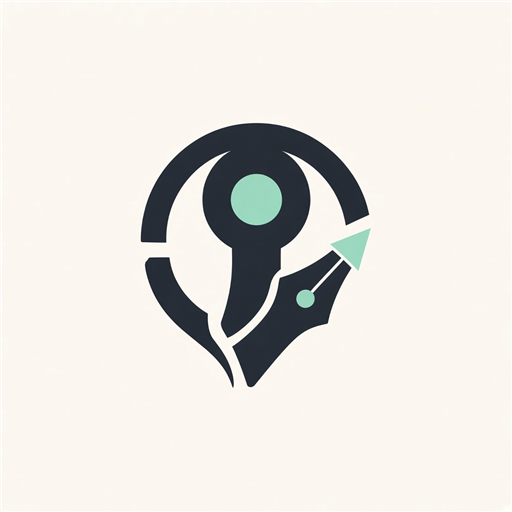
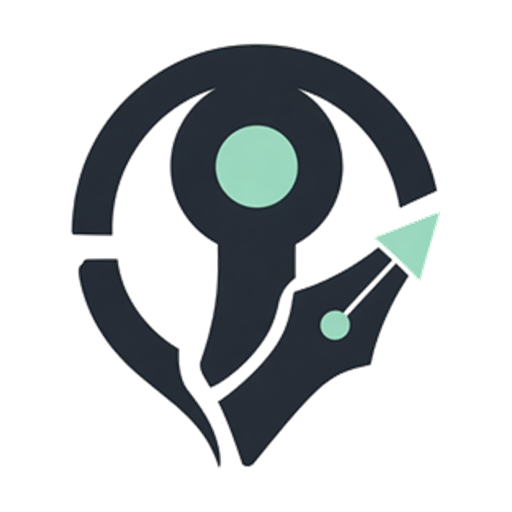
fix: render SourceMark mark with transparent PNG and clean hero brand
Strip cream backgrounds from the provided logo, serve a square transparent icon in nav/hero/footer, and stop using the cover banner as an on-page lockup.

Changed region(s): [[0.125, 0.0625, 0.875, 0.9375]]

diff --git a/public/demo.html b/public/demo.html
@@ -5,7 +5,7 @@
 <meta name="viewport" content="width=device-width, initial-scale=1" />
 <title>SourceMark — no proof, no answer</title>
 <meta name="description" content="Paid, provenance-checked reads of standardized onchain data. x402 on Hedera, sources pinned on The Graph, revenue split onchain with slashable holdback. A refusal is free." />
-<link rel="icon" type="image/png" href="/assets/sourcemark-icon.png?v=4" />
+<link rel="icon" type="image/png" href="/assets/sourcemark-icon.png?v=5" />
 <link rel="preconnect" href="https://fonts.googleapis.com" />
 <link rel="preconnect" href="https://fonts.gstatic.com" crossorigin />
 <link href="https://fonts.googleapis.com/css2?family=Bricolage+Grotesque:opsz,wght@12..96,400..800&family=Spline+Sans+Mono:wght@300..700&display=swap" rel="stylesheet" />
@@ -67,8 +67,8 @@
     backdrop-filter:blur(10px);border-bottom:1px solid var(--line);
   }
   nav .inner{max-width:1160px;margin:0 auto;padding:13px 28px;display:flex;align-items:center;gap:26px}
-  .mark{display:flex;align-items:center;gap:9px;text-decoration:none;color:var(--ink);white-space:nowrap}
-  .mark img{width:22px;height:22px;display:block}
+  .mark{display:flex;align-items:center;gap:10px;text-decoration:none;color:var(--ink);white-space:nowrap}
+  .mark img{width:28px;height:28px;display:block;object-fit:contain}
   .mark .wm{font-family:var(--display);font-weight:700;font-size:19px;letter-spacing:-.035em}
   .mark .wm i{font-style:normal;color:var(--mint-deep)}
   nav .links{display:flex;gap:22px;margin-left:8px}
@@ -97,7 +97,21 @@
     mask-image:radial-gradient(80% 70% at 62% 34%,#000,transparent 72%);
     -webkit-mask-image:radial-gradient(80% 70% at 62% 34%,#000,transparent 72%);
   }
-  .hero .lockup{height:52px;width:auto;display:block;margin:0 0 30px;max-width:min(520px,92vw);object-fit:contain}
+  .hero .brand{
+    display:flex;align-items:center;gap:14px;margin:0 0 28px;
+  }
+  .hero .brand img{
+    width:56px;height:56px;display:block;object-fit:contain;flex:0 0 auto;
+  }
+  .hero .brand .wm{
+    font-family:var(--display);font-weight:700;font-size:42px;letter-spacing:-.04em;
+    line-height:1;color:var(--ink);
+  }
+  .hero .brand .wm i{font-style:normal;color:var(--mint-deep)}
+  @media (max-width:640px){
+    .hero .brand img{width:44px;height:44px}
+    .hero .brand .wm{font-size:32px}
+  }
   h1{
     font-size:clamp(44px,8.4vw,104px);line-height:.9;letter-spacing:-.045em;
     margin:0 0 26px;max-width:15ch;text-transform:uppercase;
@@ -332,7 +346,7 @@
     padding:14px 16px;overflow-x:auto;white-space:nowrap;margin-bottom:26px;
   }
   footer .sig{display:flex;align-items:center;gap:11px;flex-wrap:wrap;padding-top:8px}
-  footer .sig img{width:20px;height:20px}
+  footer .sig img{width:26px;height:26px;object-fit:contain}
   footer .sig .wm{font-family:var(--display);font-weight:700;font-size:16px;letter-spacing:-.035em;color:var(--ink)}
   footer .sig .wm i{font-style:normal;color:var(--mint-deep)}
   a{color:var(--mint-deep)}
@@ -351,7 +365,7 @@
 <nav>
   <div class="inner">
     <a class="mark" href="#top">
-      <img src="/assets/sourcemark-icon.png?v=4" alt="" />
+      <img src="/assets/sourcemark-icon.png?v=5" alt="" />
       <span class="wm">source<i>mark</i></span>
     </a>
     <div class="links">
@@ -389,7 +403,10 @@
     </svg>
 
     <div class="wrap">
-      <img class="lockup" src="/assets/sourcemark-lockup.png?v=4" alt="SourceMark" />
+      <div class="brand">
+        <img src="/assets/sourcemark-icon.png?v=5" alt="" />
+        <span class="wm">source<i>mark</i></span>
+      </div>
 
       <h1>No proof,<br /><span class="hl">no answer.</span><span class="caret"></span></h1>
 
@@ -648,7 +665,7 @@
     An MCP server ships alongside this, so an agent can hold the same paywalled read as a tool.
     Built for ETHOnline · MIT licensed.
     <div class="sig">
-      <img src="/assets/sourcemark-icon.png?v=4" alt="" />
+      <img src="/assets/sourcemark-icon.png?v=5" alt="" />
       <span class="wm">source<i>mark</i></span>
       <span class="faint">· every answer names its sources, or there is no answer</span>
     </div>

diff --git a/README.md b/README.md
@@ -1,6 +1,4 @@
-<img src="public/assets/sourcemark-lockup.png" alt="SourceMark" height="72" />
-<br />
-<img src="public/assets/sourcemark-icon.png" alt="" height="64" />
+<img src="public/assets/sourcemark-icon.png" alt="SourceMark" height="64" />
 
 # SourceMark — no proof, no answer
 
